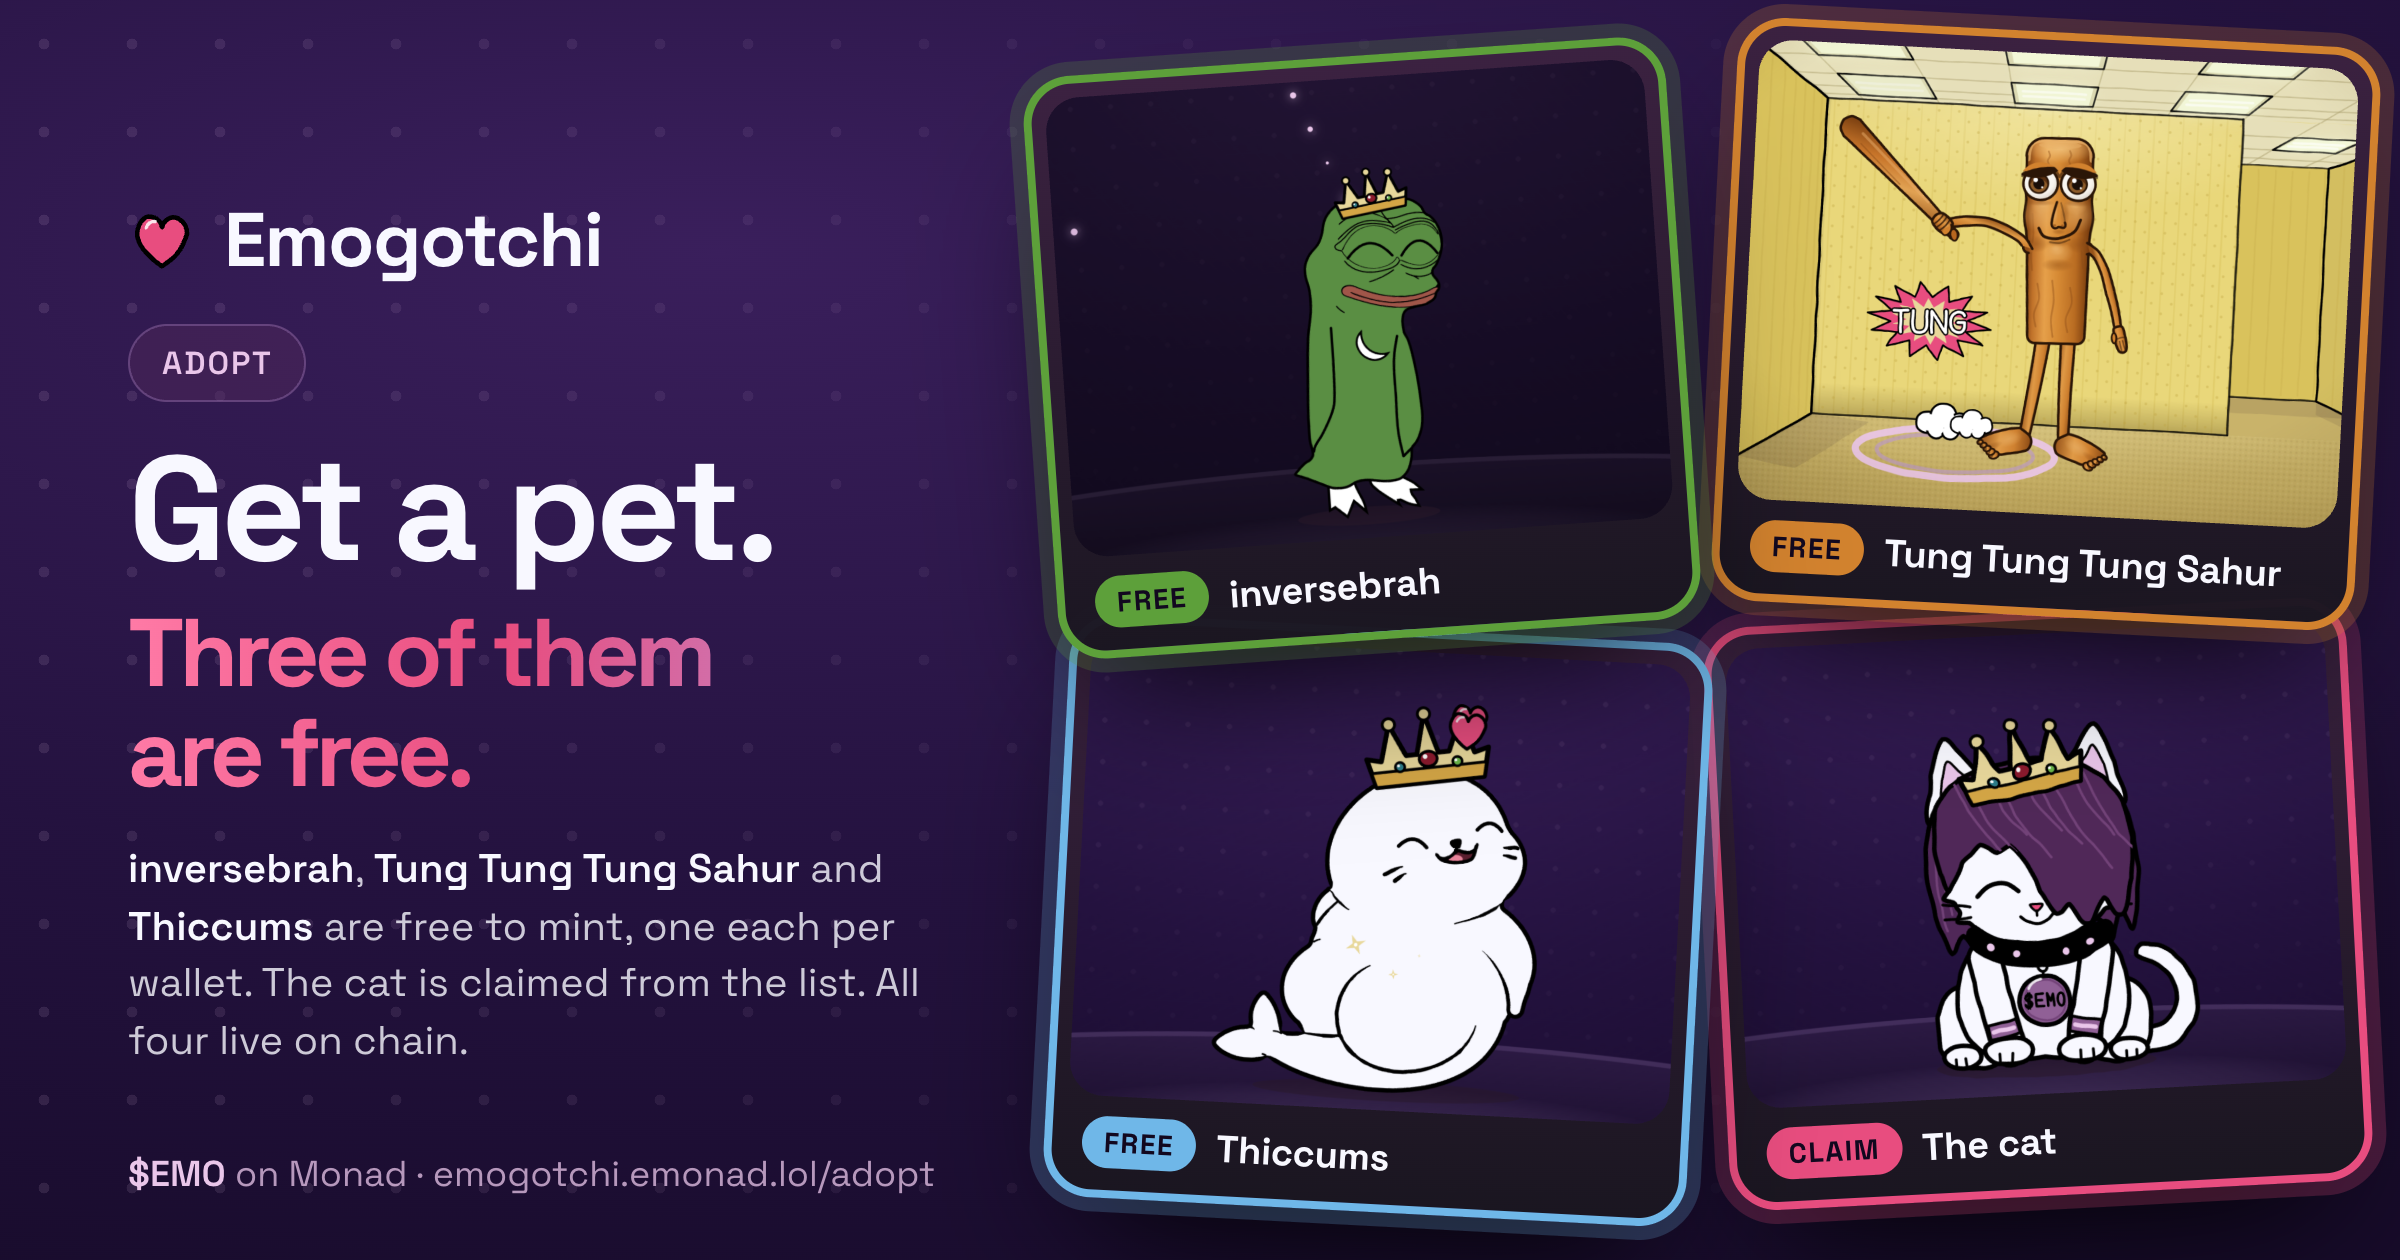
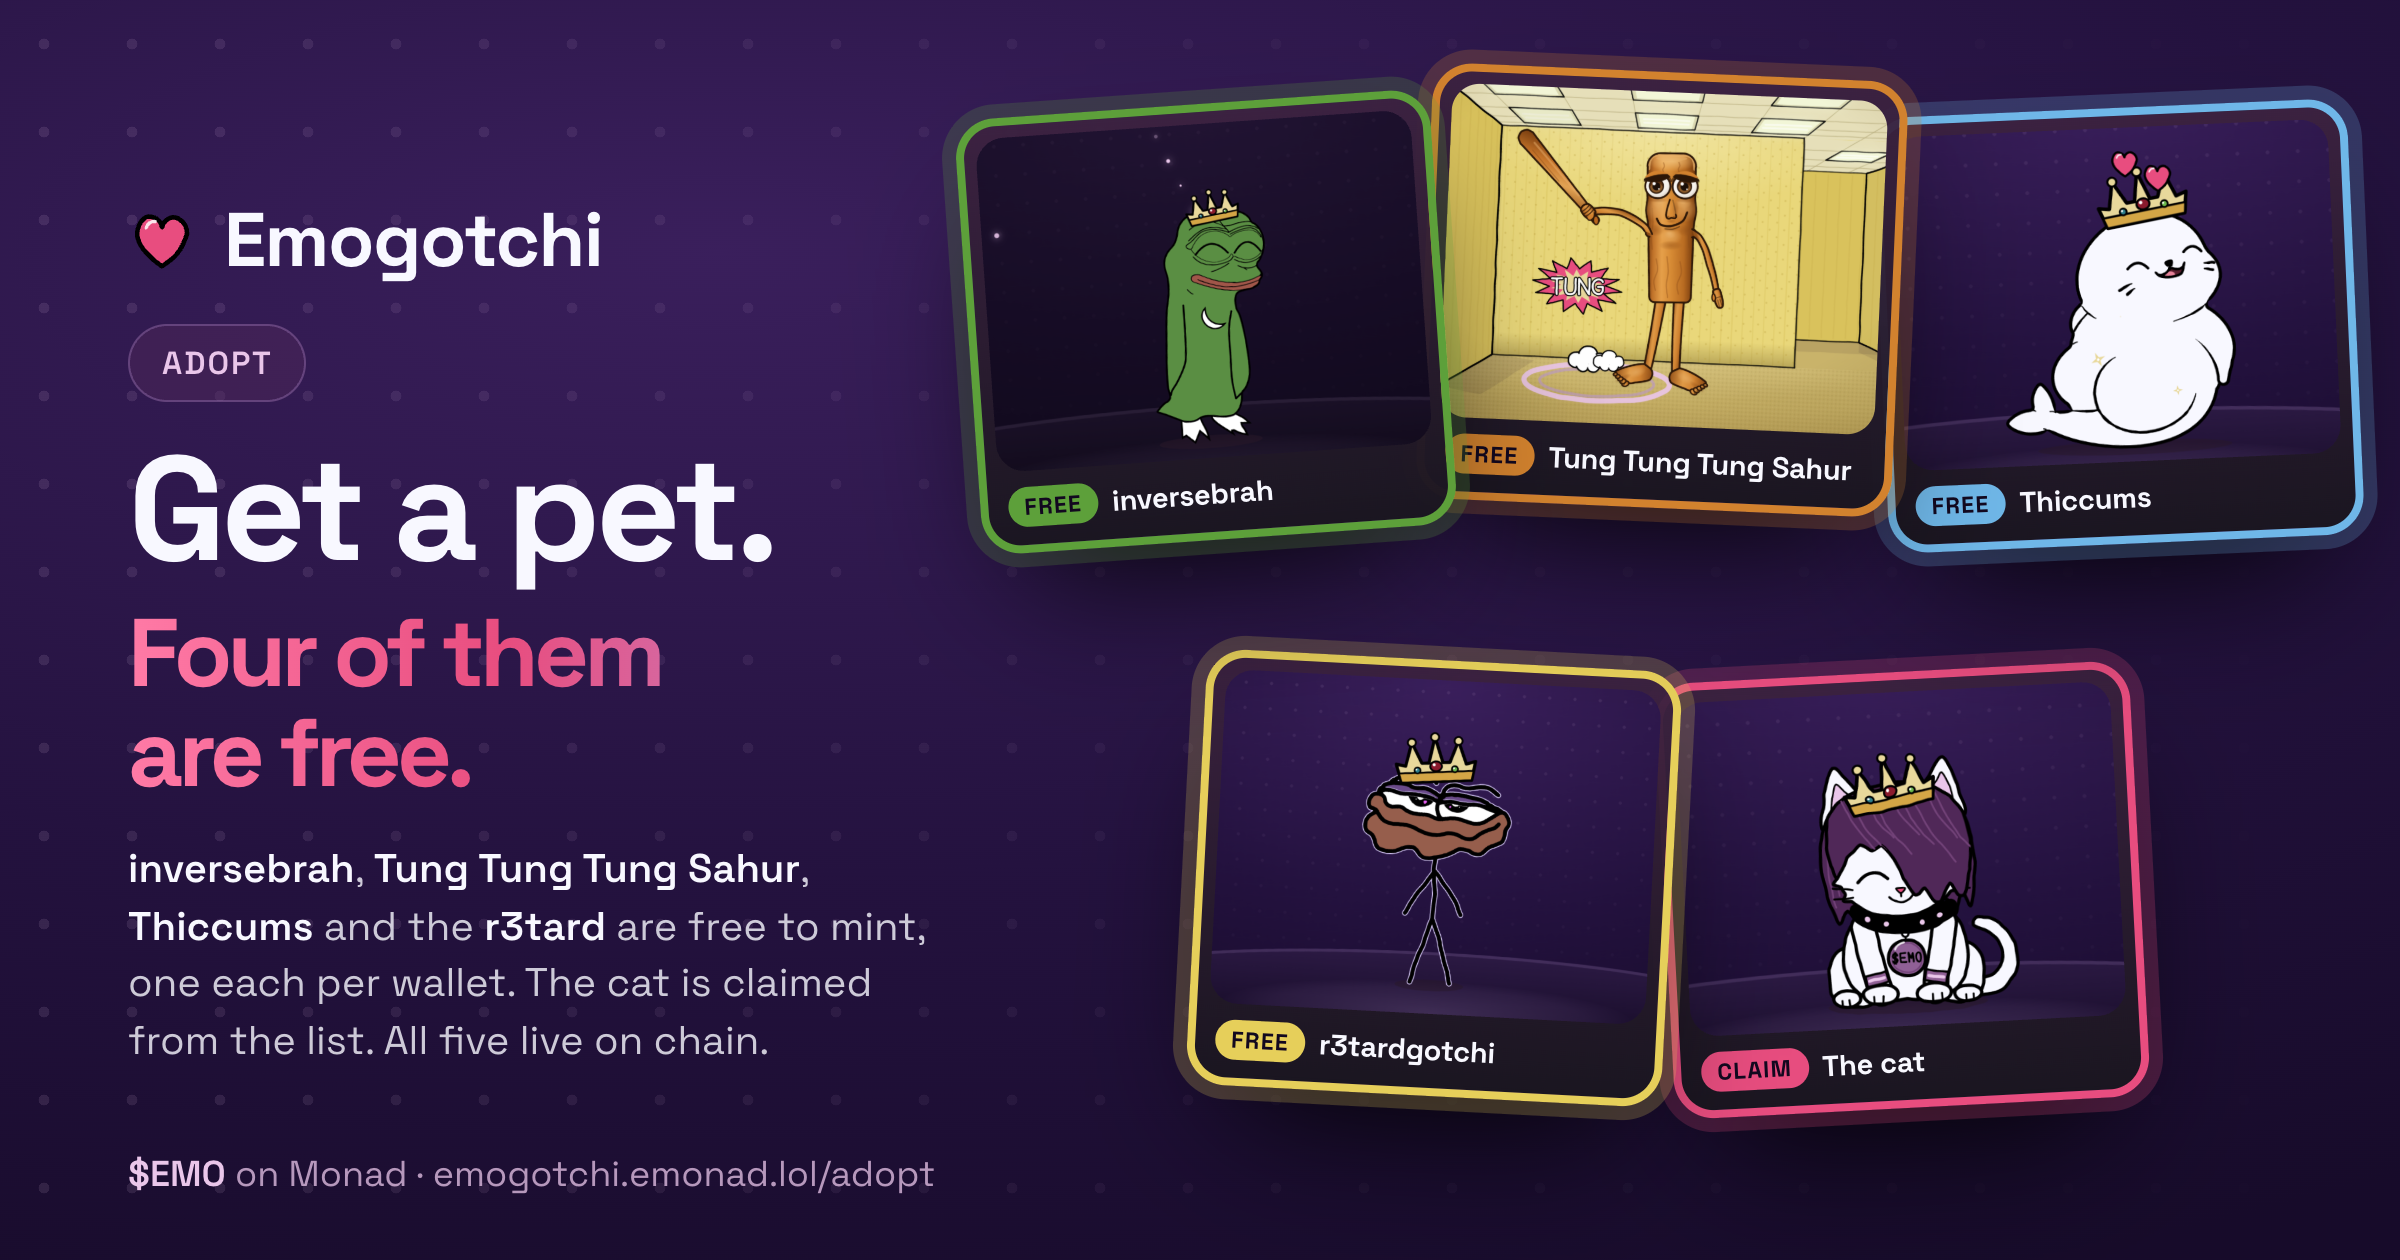
Get a pet's link card: five pets, four free
source: c28844f (+321 changed files), inputs sha256 49651df9ca2daebb

diff --git a/adopt/index.html b/adopt/index.html
@@ -18,20 +18,20 @@
          inline so that script-src never needs 'unsafe-inline' on an origin that holds passkey keys. See ga.js. -->
     <script async src="https://www.googletagmanager.com/gtag/js?id=G-4QWLXTDH20"></script>
     <script src="/ga.js"></script>
-    <meta name="description" content="Adopt a pet on Monad. inversebrah, Tung Tung Tung Sahur and Thiccums are free to mint, one each per wallet; the cat is claimed from the list. Everything about them lives on chain, their pictures included." />
+    <meta name="description" content="Adopt a pet on Monad. inversebrah, Tung Tung Tung Sahur, Thiccums and the r3tard are free to mint, one each per wallet; the cat is claimed from the list. Everything about them lives on chain, their pictures included." />
     <meta property="og:title" content="Get a pet · Emogotchi" />
-    <meta property="og:description" content="Adopt a pet on Monad. inversebrah, Tung Tung Tung Sahur and Thiccums are free to mint, one each per wallet; the cat is claimed from the list. Everything about them lives on chain, their pictures included." />
-    <meta property="og:image" content="https://emogotchi.emonad.lol/brand/adopt-og.png?v=2" />
+    <meta property="og:description" content="Adopt a pet on Monad. inversebrah, Tung Tung Tung Sahur, Thiccums and the r3tard are free to mint, one each per wallet; the cat is claimed from the list. Everything about them lives on chain, their pictures included." />
+    <meta property="og:image" content="https://emogotchi.emonad.lol/brand/adopt-og.png?v=3" />
     <meta property="og:image:width" content="2400" />
     <meta property="og:image:height" content="1260" />
-    <meta property="og:image:alt" content="inversebrah crowned at night, Tung Tung Tung Sahur knocking in the Backrooms, Thiccums crowned mid butt-bounce and the crowned cat at home: three free, one to claim." />
+    <meta property="og:image:alt" content="inversebrah crowned at night, Tung Tung Tung Sahur knocking in the Backrooms, Thiccums crowned mid butt-bounce, the r3tard crowned and the crowned cat at home: four free, one to claim." />
     <meta property="og:type" content="website" />
     <meta property="og:site_name" content="Emogotchi" />
     <meta property="og:url" content="https://emogotchi.emonad.lol/adopt/" />
     <meta name="twitter:card" content="summary_large_image" />
     <meta name="twitter:title" content="Get a pet · Emogotchi" />
-    <meta name="twitter:description" content="Adopt a pet on Monad. inversebrah, Tung Tung Tung Sahur and Thiccums are free to mint, one each per wallet; the cat is claimed from the list. Everything about them lives on chain, their pictures included." />
-    <meta name="twitter:image" content="https://emogotchi.emonad.lol/brand/adopt-og.png?v=2" />
+    <meta name="twitter:description" content="Adopt a pet on Monad. inversebrah, Tung Tung Tung Sahur, Thiccums and the r3tard are free to mint, one each per wallet; the cat is claimed from the list. Everything about them lives on chain, their pictures included." />
+    <meta name="twitter:image" content="https://emogotchi.emonad.lol/brand/adopt-og.png?v=3" />
     <title>Get a pet · Emogotchi</title>
     <script type="module" crossorigin src="/assets/index-BUMAlC2b.js"></script>
     <link rel="stylesheet" crossorigin href="/assets/index-2LDlKRbR.css">
